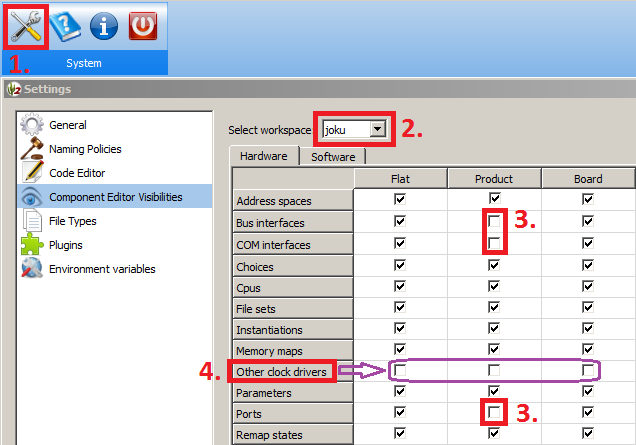
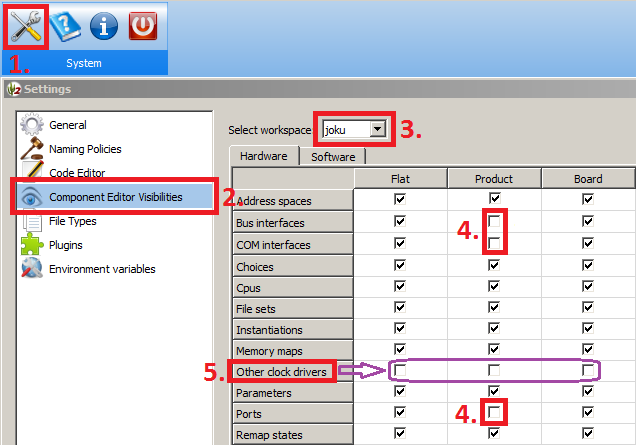
[CORRECTIVE] Further adjustment to the help pages.
git-svn-id: svn://svn.code.sf.net/p/kactus2/code/trunk@2514 f0aa6db5-7f46-43cc-a8a5-a31efdaafa67

diff --git a/Help/general/workSpace.html b/Help/general/workSpace.html
@@ -20,12 +20,13 @@
 
 <p>
 
-<img src="../images/CreateWorkSpace.png">
+<img alt="CreateWorkSpace" src="../images/CreateWorkSpace.png">
 
 <p>You may also customize what is seen in the component editor, while using a workspace:</p>
 
 <ol>
 <li>Open settings.</li>
+<li>Select <i>Component Editor Visibilities</i>.</li>
 <li>Choose workspace which you wish to customize.</li>
 <li>For instance, you may decide that product level components do not need external interfaces.</li>
 <li>As another example, you may decide that since this workspace is reserved for software work, it does not need other clock drivers.</li>
@@ -33,11 +34,11 @@
 
 <p>
 
-<img src="../images/ComponentVisibilities.png">
+<img alt="ComponentVisibilities" src="../images/ComponentVisibilities.png">
 
 <p>You may also customize design editors. For instance, in the example below, there are only widgets pertaining to design configuration.</p>
 
-<img src="../images/desgConfOnly.png">
+<img alt="desgConfOnly" src="../images/desgConfOnly.png">
 
 </body>
 </html>

diff --git a/Help/gettingStarted/configureLibrary.html b/Help/gettingStarted/configureLibrary.html
@@ -1,6 +1,8 @@
 <!DOCTYPE html> 
-<html>
+<html lang="en">
 <head>
+    <meta http-equiv="Content-Type" content="text/html; charset=utf-8">
+    <title>Configuring Library</title>
     <link href="style.css" rel="stylesheet" type="text/css">
 </head>
 <body>
@@ -21,7 +23,7 @@
 
 <p>The existing documents are scanned from all active locations.</p>
 
-<img src="../images/AddLibrary.png">
+<img alt="AddLibrary" src="../images/AddLibrary.png">
 
 <p>The next step is <a href="accessingDocuments.html">accessing documents.</a><p>
 

diff --git a/Help/general/defaultApplication.html b/Help/general/defaultApplication.html
@@ -1,5 +1,5 @@
 <!DOCTYPE html> 
-<html>
+<html lang="en">
 <head>
     <meta http-equiv="Content-Type" content="text/html; charset=utf-8">
     <title>Default Application</title>
@@ -19,7 +19,7 @@
 
 <p>
 
-<img src="../images/EnvironmentVariables.png">
+<img alt="EnvironmentVariables" src="../images/EnvironmentVariables.png">
 
 <ol>
 <li>Select <i>File Types</i>.</li>
@@ -29,7 +29,7 @@
 
 <p>
 
-<img src="../images/FileTypes.png">
+<img alt="FileTypes" src="../images/FileTypes.png">
 
 </body>
 </html>
